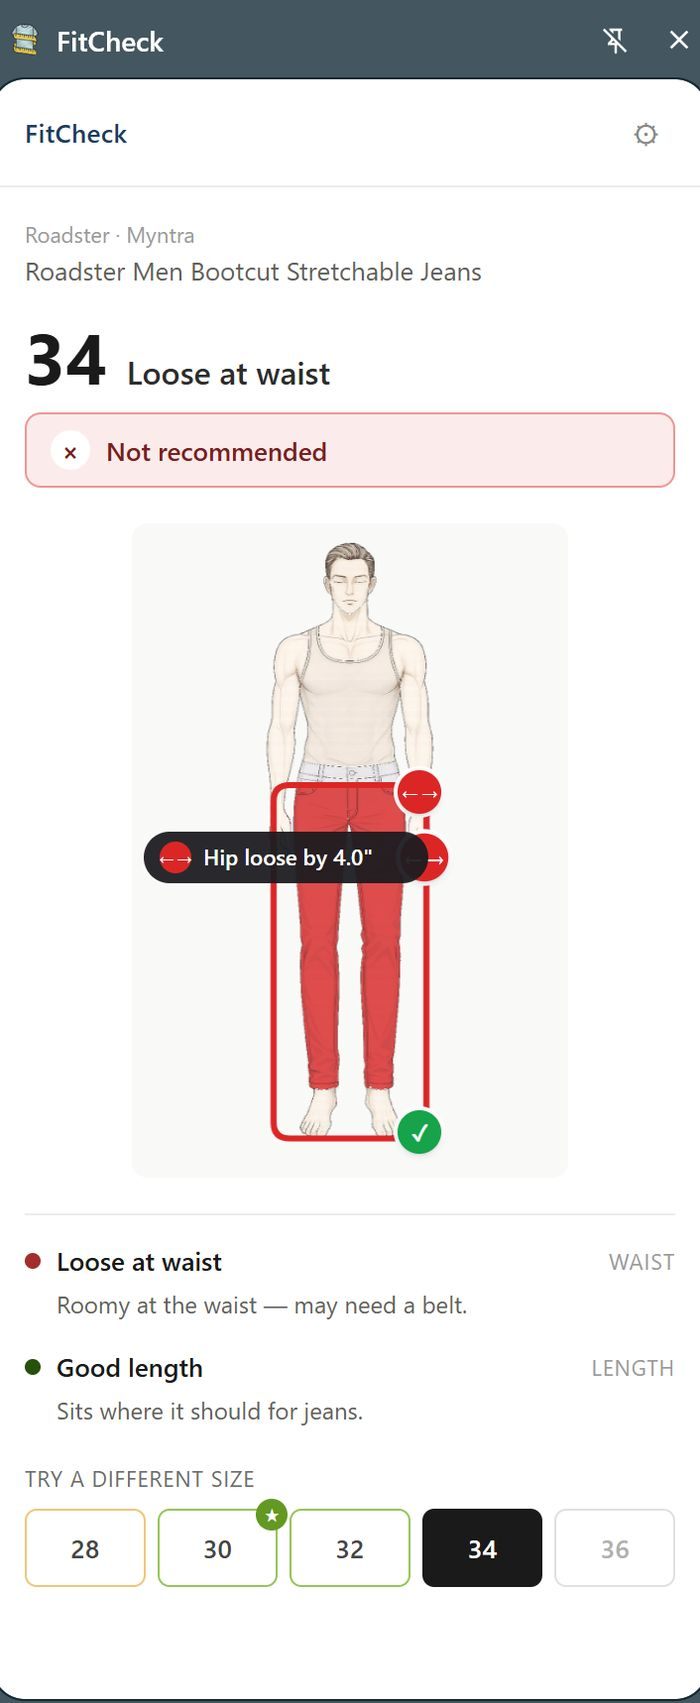
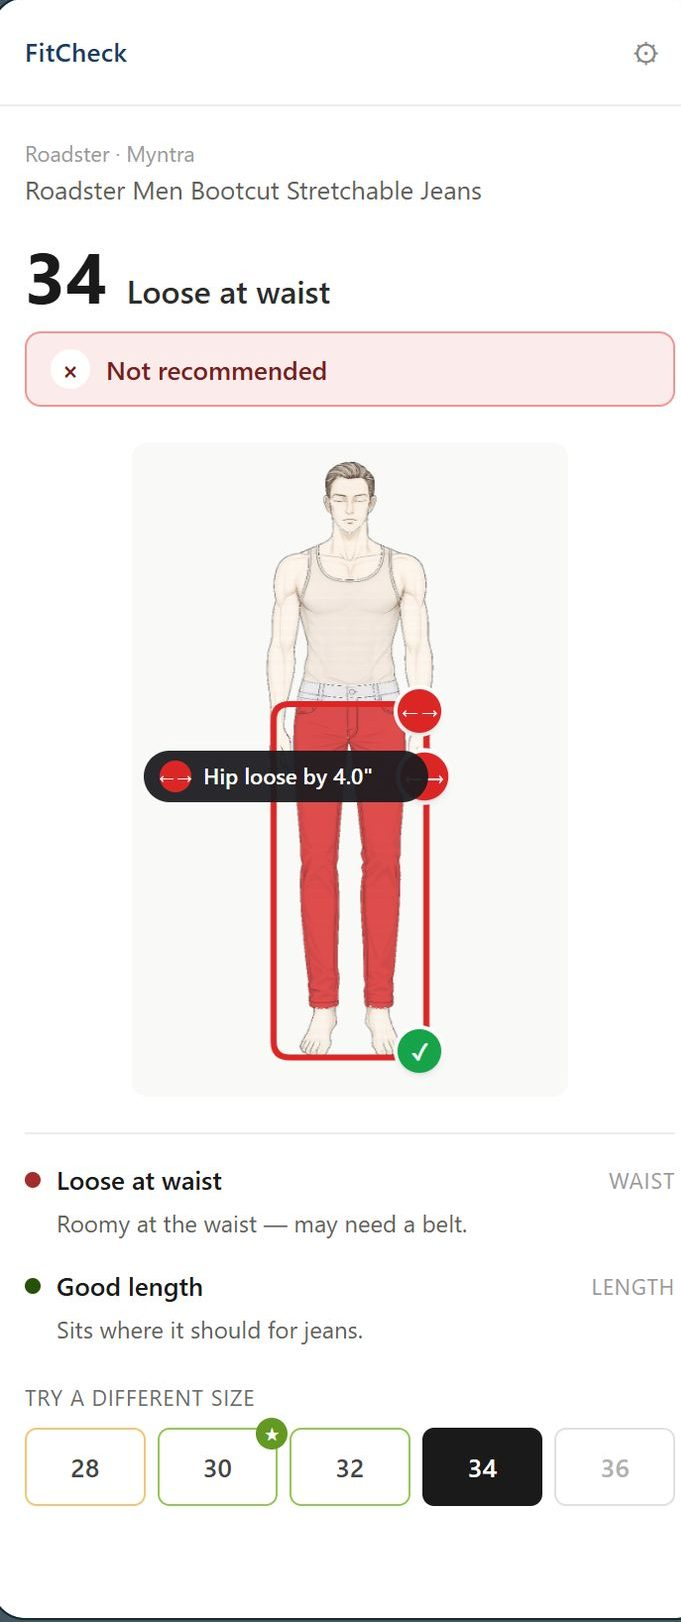
Open the product cards on a screenshot, and stop them lifting
The three product cards led with the interactive widget, so the first thing a
visitor met was a toy rather than the thing itself. The flip now runs
screenshots first and ends on the widget, which also gives the sequence
somewhere to arrive. FitCheck leads on the refusal shot: a size it turns down
says more about the engine than a size it accepts.

Hover was doing two things at once, a lift and a shadow. The lift read as a
toy, so it is gone — along with the smaller ones hiding on the CTA, the link
buttons and the About columns. The shadow carries it alone now and is pitched
deeper to compensate.

The FitCheck screenshots kept the browser's own chrome: a side-panel header on
top, a scrollbar down the right. Both cropped away, and the second shot
trimmed to match the first so the card doesn't resize mid-flip.

Timelines are off the cards. How long something took is not the argument.

diff --git a/index.html b/index.html
@@ -171,7 +171,7 @@
           <svg class="ico" viewBox="0 0 24 24" aria-hidden="true"><rect x="3" y="10" width="12" height="10" rx="2"/><path d="M7 7h8a2 2 0 0 1 2 2v8"/><path d="M11 4h6a2 2 0 0 1 2 2v6"/></svg>
           Products
         </div>
-        <p id="about-prod-text"><span class="ln">Three products, built and shipped solo. Eight months, start to finish.</span><span class="ln">Commerce, personal finance, and PM tooling. Plus case studies on products already built.</span></p>
+        <p id="about-prod-text"><span class="ln">Three products, designed, built and shipped solo.</span><span class="ln">Commerce, personal finance, and PM tooling. Plus case studies on products already built.</span></p>
       </div>
       <div class="about-col reveal">
         <div class="q">
@@ -222,7 +222,6 @@
               <div class="row"><span class="k">Outcome</span><span class="v">It caught a real sizing mistake of mine. One that had already cost a return and an exchange. Every verdict can be checked against the store's own chart.</span></div>
             </div>
             <div class="meta">
-              <div class="cell"><div class="mk">Timeline</div><div class="mv">Oct–Dec 2025</div></div>
               <div class="cell"><div class="mk">Platform</div><div class="mv">Chrome extension</div></div>
               <div class="cell"><div class="mk">Stage</div><div class="mv">Shipped, in use</div></div>
             </div>
@@ -247,44 +246,44 @@
               <div class="flip-slot flip-slot-b"></div>
             </div>
             <div class="flip-pool">
-            <div class="mini-widget-box flip-panel" id="widget-fitcheck">
-              <div class="widget-head">
-                <span class="widget-title">FitCheck</span>
-                <button type="button" class="flip-btn" onclick="flipWidget('fitcheck')"
-                        aria-label="Show screenshots of the real extension">Screenshots &#8635;</button>
-              </div>
-              <div class="widget-controls">
-                <div class="widget-label">
-                  <span id="fit-axis-label">Waist measurement</span>
-                  <span><b id="fit-chest-val">30 in</b></span>
-                </div>
-                <input type="range" min="24" max="46" value="30" step="1" class="widget-slider" id="fit-chest-slider" oninput="updateFitWidget()" aria-label="Your measurement">
-                <div class="widget-btn-row fit-row">
-                  <button class="widget-btn fit-btn active" onclick="setFitGarment('jeans', this)"><span class="fb-r">AJIO</span><span>Jeans</span></button>
-                  <button class="widget-btn fit-btn" onclick="setFitGarment('tee', this)"><span class="fb-r">Myntra</span><span>Tee</span></button>
-                  <button class="widget-btn fit-btn" onclick="setFitGarment('blouse', this)"><span class="fb-r">H&amp;M</span><span>Blouse</span></button>
-                </div>
-              </div>
-              <div class="widget-result" id="fit-result-box" aria-live="polite">
-                <!-- verdict only — populated by JS -->
-              </div>
-            </div>
               <div class="mini-widget-box flip-panel shot-face">
-                <img src="assets/shot-fitcheck.jpg" class="widget-shot" loading="lazy" decoding="async"
-                     width="700" height="1706"
-                     alt="The FitCheck side panel: verdict &quot;L, slightly long&quot;, an amber &quot;May work for you&quot; chip, a callout reading &quot;You previously bought size M. The fit math now recommends L&quot;, a tinted silhouette with per-axis pins, and the reasoning for each axis." />
+                <img src="assets/shot-fitcheck-2.jpg?v=2" class="widget-shot" loading="lazy" decoding="async"
+                     width="681" height="1622"
+                     alt="The FitCheck side panel on a Myntra jeans page: verdict &quot;34, loose at waist&quot;, a red &quot;Not recommended&quot; chip, a tinted silhouette pinned &quot;Hip loose by 4.0 inches&quot;, the per-axis reasoning, and a size selector marking 30 as the recommendation." />
                 <div class="shot-bar">
-                  <span class="shot-cap">Live on Myntra. It disagrees with your last purchase, and says why.</span>
+                  <span class="shot-cap">A size it turns down, with the axis that fails and where to go instead.</span>
                   <button type="button" class="flip-btn" onclick="flipWidget('fitcheck')" aria-label="Next screenshot">Next &#8635;</button>
                 </div>
               </div>
               <div class="mini-widget-box flip-panel shot-face">
-                <img src="assets/shot-fitcheck-2.jpg" class="widget-shot" loading="lazy" decoding="async"
-                     width="700" height="1703"
-                     alt="The FitCheck side panel on a Myntra jeans page: verdict &quot;34, loose at waist&quot;, a red &quot;Not recommended&quot; chip, a tinted silhouette pinned &quot;Hip loose by 4.0 inches&quot;, the per-axis reasoning, and a size selector marking 30 as the recommendation." />
+                <img src="assets/shot-fitcheck.jpg?v=2" class="widget-shot" loading="lazy" decoding="async"
+                     width="681" height="1623"
+                     alt="The FitCheck side panel: verdict &quot;L, slightly long&quot;, an amber &quot;May work for you&quot; chip, a callout reading &quot;You previously bought size M. The fit math now recommends L&quot;, a tinted silhouette with per-axis pins, and the reasoning for each axis." />
                 <div class="shot-bar">
-                  <span class="shot-cap">A size it turns down, with the axis that fails and where to go instead.</span>
-                  <button type="button" class="flip-btn" onclick="flipWidget('fitcheck')" aria-label="Back to the interactive demo">Back to demo &#8635;</button>
+                  <span class="shot-cap">Live on Myntra. It disagrees with your last purchase, and says why.</span>
+                  <button type="button" class="flip-btn" onclick="flipWidget('fitcheck')" aria-label="Try the interactive demo">Try it &#8635;</button>
+                </div>
+              </div>
+              <div class="mini-widget-box flip-panel" id="widget-fitcheck">
+                <div class="widget-head">
+                  <span class="widget-title">FitCheck</span>
+                  <button type="button" class="flip-btn" onclick="flipWidget('fitcheck')"
+                          aria-label="Back to screenshots of the real extension">Screenshots &#8635;</button>
+                </div>
+                <div class="widget-controls">
+                  <div class="widget-label">
+                    <span id="fit-axis-label">Waist measurement</span>
+                    <span><b id="fit-chest-val">30 in</b></span>
+                  </div>
+                  <input type="range" min="24" max="46" value="30" step="1" class="widget-slider" id="fit-chest-slider" oninput="updateFitWidget()" aria-label="Your measurement">
+                  <div class="widget-btn-row fit-row">
+                    <button class="widget-btn fit-btn active" onclick="setFitGarment('jeans', this)"><span class="fb-r">AJIO</span><span>Jeans</span></button>
+                    <button class="widget-btn fit-btn" onclick="setFitGarment('tee', this)"><span class="fb-r">Myntra</span><span>Tee</span></button>
+                    <button class="widget-btn fit-btn" onclick="setFitGarment('blouse', this)"><span class="fb-r">H&amp;M</span><span>Blouse</span></button>
+                  </div>
+                </div>
+                <div class="widget-result" id="fit-result-box" aria-live="polite">
+                  <!-- verdict only — populated by JS -->
                 </div>
               </div>
             </div>
@@ -337,7 +336,6 @@
               <div class="row"><span class="k">Outcome</span><span class="v">A live app that would rather stay quiet than show a number it can't stand behind. Trust built in, not promised in small print.</span></div>
             </div>
             <div class="meta">
-              <div class="cell"><div class="mk">Timeline</div><div class="mv">Mar–May 2026</div></div>
               <div class="cell"><div class="mk">Platform</div><div class="mv">React + Supabase web app</div></div>
               <div class="cell"><div class="mk">Stage</div><div class="mv">Deployed, actively maintained</div></div>
             </div>
@@ -359,22 +357,6 @@
             </div>
             <div class="flip-pool">
 
-              <div class="mini-widget-box flip-panel" id="widget-savio">
-                <div class="widget-head">
-                  <span class="widget-title">Savio</span>
-                  <button type="button" class="flip-btn" onclick="flipWidget('savio')"
-                          aria-label="Show screenshots of the real app">Screenshots &#8635;</button>
-                </div>
-                <div class="widget-controls">
-                  <div class="widget-btn-row fit-row">
-                    <button class="widget-btn fit-btn active" onclick="setSavioScenario('shoes', this)"><span class="fb-r">Shoes</span><span>₹2,500</span></button>
-                    <button class="widget-btn fit-btn" onclick="setSavioScenario('watch', this)"><span class="fb-r">Watch</span><span>₹4,500</span></button>
-                    <button class="widget-btn fit-btn" onclick="setSavioScenario('phone', this)"><span class="fb-r">Phone</span><span>₹35,000</span></button>
-                  </div>
-                </div>
-                <div class="widget-result" id="savio-result-box" aria-live="polite"></div>
-              </div>
-
               <div class="mini-widget-box flip-panel shot-face">
                 <img src="assets/shot-savio-hero.jpg" class="widget-shot" loading="lazy" decoding="async"
                      width="760" height="1457"
@@ -391,8 +373,24 @@
                      alt="Savio's chat answering &quot;Can I afford a ₹5,000 watch?&quot; — a Verified badge, the verdict, the working, and chips naming the impulse-wait and daily-floor rules it used." />
                 <div class="shot-bar">
                   <span class="shot-cap">It answers, shows the maths, and names the rule it used.</span>
-                  <button type="button" class="flip-btn" onclick="flipWidget('savio')" aria-label="Back to the interactive demo">Back to demo &#8635;</button>
+                  <button type="button" class="flip-btn" onclick="flipWidget('savio')" aria-label="Try the interactive demo">Try it &#8635;</button>
                 </div>
+              </div>
+
+              <div class="mini-widget-box flip-panel" id="widget-savio">
+                <div class="widget-head">
+                  <span class="widget-title">Savio</span>
+                  <button type="button" class="flip-btn" onclick="flipWidget('savio')"
+                          aria-label="Back to screenshots of the real app">Screenshots &#8635;</button>
+                </div>
+                <div class="widget-controls">
+                  <div class="widget-btn-row fit-row">
+                    <button class="widget-btn fit-btn active" onclick="setSavioScenario('shoes', this)"><span class="fb-r">Shoes</span><span>₹2,500</span></button>
+                    <button class="widget-btn fit-btn" onclick="setSavioScenario('watch', this)"><span class="fb-r">Watch</span><span>₹4,500</span></button>
+                    <button class="widget-btn fit-btn" onclick="setSavioScenario('phone', this)"><span class="fb-r">Phone</span><span>₹35,000</span></button>
+                  </div>
+                </div>
+                <div class="widget-result" id="savio-result-box" aria-live="polite"></div>
               </div>
 
             </div>
@@ -444,7 +442,6 @@
               <div class="row"><span class="k">Outcome</span><span class="v">A week of reviews becomes a ranked list a PM can act on. On the sample set Delivery &amp; Tracking tops it at 81.6; on live data it is 51.8 across 32 signals. The page says which is which.</span></div>
             </div>
             <div class="meta">
-              <div class="cell"><div class="mk">Timeline</div><div class="mv">Dec 2025–Mar 2026</div></div>
               <div class="cell"><div class="mk">Platform</div><div class="mv">TypeScript on Cloud Run</div></div>
               <div class="cell"><div class="mk">Stage</div><div class="mv">Deployed, scheduled</div></div>
             </div>
@@ -466,22 +463,6 @@
             </div>
             <div class="flip-pool">
 
-              <div class="mini-widget-box flip-panel" id="widget-amazon">
-                <div class="widget-head">
-                  <span class="widget-title">This week&rsquo;s ranking</span>
-                  <button type="button" class="flip-btn" onclick="flipWidget('amazon')"
-                          aria-label="Show screenshots of the real product">Screenshots &#8635;</button>
-                </div>
-                <div class="widget-controls">
-                  <div class="widget-btn-row fit-row">
-                    <button class="widget-btn fit-btn active" onclick="setAmazonPipeline('top', this)"><span class="fb-r">Rank 1</span><span>Delivery</span></button>
-                    <button class="widget-btn fit-btn" onclick="setAmazonPipeline('mid', this)"><span class="fb-r">Rank 4</span><span>Checkout</span></button>
-                    <button class="widget-btn fit-btn" onclick="setAmazonPipeline('low', this)"><span class="fb-r">Rank 7</span><span>Detail pages</span></button>
-                  </div>
-                </div>
-                <div class="widget-result" id="amazon-result-box" aria-live="polite"></div>
-              </div>
-
               <div class="mini-widget-box flip-panel shot-face">
                 <img src="assets/shot-amazon-1.jpg" class="widget-shot" loading="lazy" decoding="async"
                      width="1100" height="657"
@@ -498,8 +479,24 @@
                      alt="Asking the digest &quot;What are the top complaints this week? Cite signals&quot; — the answer names the themes and footnotes each claim with the review it came from." />
                 <div class="shot-bar">
                   <span class="shot-cap">Ask it anything. Each claim footnotes the review it came from.</span>
-                  <button type="button" class="flip-btn" onclick="flipWidget('amazon')" aria-label="Back to the interactive ranking">Back to demo &#8635;</button>
+                  <button type="button" class="flip-btn" onclick="flipWidget('amazon')" aria-label="Try the interactive ranking">Try it &#8635;</button>
                 </div>
+              </div>
+
+              <div class="mini-widget-box flip-panel" id="widget-amazon">
+                <div class="widget-head">
+                  <span class="widget-title">This week&rsquo;s ranking</span>
+                  <button type="button" class="flip-btn" onclick="flipWidget('amazon')"
+                          aria-label="Back to screenshots of the real product">Screenshots &#8635;</button>
+                </div>
+                <div class="widget-controls">
+                  <div class="widget-btn-row fit-row">
+                    <button class="widget-btn fit-btn active" onclick="setAmazonPipeline('top', this)"><span class="fb-r">Rank 1</span><span>Delivery</span></button>
+                    <button class="widget-btn fit-btn" onclick="setAmazonPipeline('mid', this)"><span class="fb-r">Rank 4</span><span>Checkout</span></button>
+                    <button class="widget-btn fit-btn" onclick="setAmazonPipeline('low', this)"><span class="fb-r">Rank 7</span><span>Detail pages</span></button>
+                  </div>
+                </div>
+                <div class="widget-result" id="amazon-result-box" aria-live="polite"></div>
               </div>
 
             </div>

diff --git a/styles.css b/styles.css
@@ -16,7 +16,7 @@
   
   --hairline:#DBD3C9; --hairline-strong:#CFC6BA;
   --shadow:0 1px 2px rgba(33,30,36,.04),0 10px 34px rgba(33,30,36,.07);
-  --shadow-lift:0 2px 6px rgba(33,30,36,.06),0 22px 54px rgba(33,30,36,.12);
+  --shadow-lift:0 3px 10px rgba(33,30,36,.09),0 28px 66px rgba(33,30,36,.17);
   --r-sm:9px; --r:14px; --r-lg:18px;
   --display:'Bricolage Grotesque',sans-serif; --body:'Inter',sans-serif; --mono:'IBM Plex Mono',monospace;
   --wrap:1080px; --measure:58ch;
@@ -29,7 +29,7 @@
   --accent:#8288C4; --accent-soft:#A3A7D8; --accent-wash:rgba(130,136,196,0.18);
   --hairline:#393242; --hairline-strong:#4B4257;
   --shadow:0 2px 8px rgba(0,0,0,.4);
-  --shadow-lift:0 12px 36px rgba(0,0,0,.6);
+  --shadow-lift:0 4px 14px rgba(0,0,0,.5),0 18px 48px rgba(0,0,0,.72);
 }
 @media (prefers-color-scheme: dark) {
   :root:not([data-theme="light"]) {
@@ -38,7 +38,7 @@
     --accent:#8288C4; --accent-soft:#A3A7D8; --accent-wash:rgba(130,136,196,0.18);
     --hairline:#393242; --hairline-strong:#4B4257;
     --shadow:0 2px 8px rgba(0,0,0,.4);
-    --shadow-lift:0 12px 36px rgba(0,0,0,.6);
+    --shadow-lift:0 4px 14px rgba(0,0,0,.5),0 18px 48px rgba(0,0,0,.72);
   }
 }
 
@@ -410,7 +410,7 @@ section{padding:56px 0}
 
 .about-grid{display:grid;grid-template-columns:repeat(3,1fr);gap:36px;margin-top:8px}
 .about-col{background:var(--surface-2);border:1px solid var(--hairline);border-radius:var(--r);padding:24px 26px;transition:transform .2s,box-shadow .2s}
-.about-col:hover{transform:translateY(-2px);box-shadow:var(--shadow-lift)}
+.about-col:hover{box-shadow:var(--shadow-lift)}
 .about-col .q{font-family:var(--mono);font-size:11px;letter-spacing:.13em;text-transform:uppercase;color:var(--faint);margin-bottom:12px;display:flex;align-items:center;gap:8px}
 .about-col p{font-size:15px;line-height:1.6;color:var(--ink-2);transition:opacity .25s}
 .about-col p b{color:var(--ink);font-weight:600}
@@ -434,11 +434,11 @@ section{padding:56px 0}
 
 /* CARD LAYOUT */
 .projects{display:flex;flex-direction:column;gap:24px;margin-top:28px}
-.card{background:var(--surface-2);border:1px solid var(--hairline);border-radius:var(--r);padding:28px 32px;box-shadow:var(--shadow);transition:transform .15s ease-out,box-shadow .25s,border-color .25s;text-decoration:none;color:inherit;position:relative}
-.card:hover{border-color:var(--hairline-strong);box-shadow:var(--shadow-lift);transform:translateY(-3px)}
-/* The lift is motion, so it goes when motion is unwelcome. The border and shadow
-   stay, which is enough to say the card responds. */
-@media (prefers-reduced-motion:reduce){.card,.card:hover{transform:none;transition:box-shadow .25s,border-color .25s}}
+.card{background:var(--surface-2);border:1px solid var(--hairline);border-radius:var(--r);padding:28px 32px;box-shadow:var(--shadow);transition:box-shadow .25s,border-color .25s;text-decoration:none;color:inherit;position:relative}
+/* Hover is depth only — no lift, no tilt. A card that moves under the cursor reads
+   as a toy; a card that deepens its shadow reads as a surface you can pick up. The
+   shadow carries the whole signal now, so it is pitched stronger than the resting one. */
+.card:hover{border-color:var(--hairline-strong);box-shadow:var(--shadow-lift)}
 .card.written{border-style:dashed;border-color:var(--hairline-strong);background:var(--surface)}
 .card.wip{opacity:.76}
 
@@ -509,9 +509,10 @@ section{padding:56px 0}
 .fit-btn .fb-r{font-size:10px;letter-spacing:.1em;text-transform:uppercase;opacity:.8}
 
 /* ---- WIDGET FLIP ----
-   Two physical slots, spun forward forever. Panel 0 is the interactive widget,
-   the rest are screenshots; each press moves the next panel into whichever slot
-   is about to face the viewer and adds another half-turn.
+   Two physical slots, spun forward forever. The screenshots lead — a card should
+   open on the real product, not on a toy — and the interactive widget sits last,
+   so the sequence ends on something to poke at. Each press moves the next panel
+   into whichever slot is about to face the viewer and adds another half-turn.
 
    The obvious approach — one face per screenshot, pre-rotated — cannot work
    past two: with three faces the last press has to unwind 360deg back to the
@@ -541,12 +542,12 @@ section{padding:56px 0}
 /* A published study is finished work, so it loses the dashed outline the unwritten
    ones carry — dashed reads as draft, which is the opposite of "go and read this". */
 .card.written.with-art{border-style:solid;border-color:var(--hairline)}
-.card.written.with-art:hover{border-color:var(--crew-line);transform:translateY(-2px)}
+.card.written.with-art:hover{border-color:var(--crew-line)}
 .tag.solid{border-style:solid}
 
 .card-tease{margin-top:16px;font-size:14px;line-height:1.6;color:var(--muted)}
-.card-cta{display:inline-flex;align-items:center;gap:9px;margin-top:18px;padding:11px 18px;min-height:44px;font-family:var(--mono);font-size:12.5px;letter-spacing:.02em;color:var(--paper);background:var(--ink);border-radius:10px;transition:transform .15s,box-shadow .2s}
-.card:hover .card-cta{transform:translateY(-1px);box-shadow:var(--shadow-lift)}
+.card-cta{display:inline-flex;align-items:center;gap:9px;margin-top:18px;padding:11px 18px;min-height:44px;font-family:var(--mono);font-size:12.5px;letter-spacing:.02em;color:var(--paper);background:var(--ink);border-radius:10px;transition:box-shadow .2s}
+.card:hover .card-cta{box-shadow:var(--shadow-lift)}
 .card-cta .arr{transition:transform .2s}
 .card:hover .card-cta .arr{transform:translate(2px,-2px)}
 @media (prefers-reduced-motion:reduce){.card-cta,.card-cta .arr{transition:none}}
@@ -581,9 +582,9 @@ section{padding:56px 0}
 .card-src a.src-read{background:var(--accent-wash);color:var(--accent);border-color:transparent;font-weight:500}
 .card-src a.src-read:hover{border-color:var(--accent)}
 .card-src a.src-code{background:transparent;color:var(--ink);border-color:var(--hairline-strong)}
-.card-src a:hover{transform:translateY(-1px);box-shadow:var(--shadow-lift)}
+.card-src a:hover{box-shadow:var(--shadow-lift)}
 .card-src a.src-code:hover{border-color:var(--ink)}
-@media (prefers-reduced-motion:reduce){.card-src a,.card-src a:hover{transform:none}}
+
 /* Stacked, they go full width and keep their order rather than sitting at opposite
    ends of a narrow card with a gulf between them. */
 @media(max-width:520px){

diff --git a/script.js b/script.js
@@ -430,7 +430,7 @@ document.querySelectorAll('.widget-flip').forEach(wrap => {
   Array.from(pool.children).forEach((p, i) => { p.dataset.idx = String(i); });
   wrap.dataset.turn = '0';
   const a = wrap.querySelector('.flip-slot-a');
-  a.appendChild(pool.firstElementChild);        // panel 0 = the widget
+  a.appendChild(pool.firstElementChild);        // panel 0 = the lead screenshot
   wrap.querySelector('.flip-slot-b').inert = true;
 });
 
